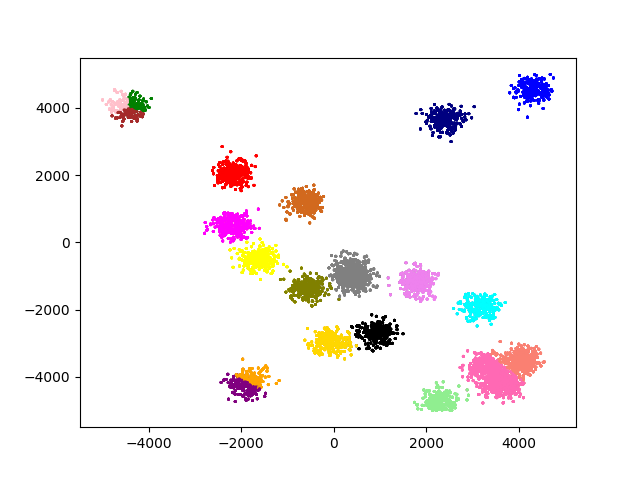
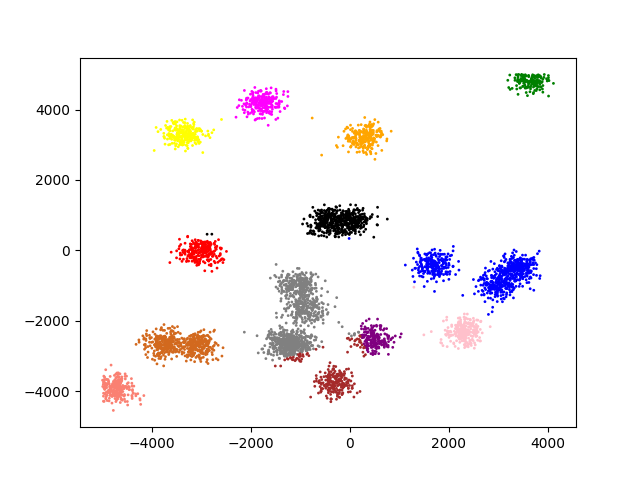
všetko done len aglo festzle

diff --git a/main.py b/main.py
@@ -1,12 +1,13 @@
 import random
 import matplotlib.pyplot as plt
+import time
 
 
 # vygeneruje prvych 20 bodov
-def generateStartingPoints():
+def generateStartingPoints(k):
     pa = []
     count = 0
-    while count != 20:
+    while count != k:
         new = []
         x = random.randrange(-5000, 5001)
         y = random.randrange(-5000, 5001)
@@ -22,7 +23,7 @@ def generateStartingPoints():
 def generateOtherPoints(pa, op):
     count = 0
 
-    while count != 20000:
+    while count != 1000:
         rand_num = random.randrange(0, len(pa))
         random_point = pa[rand_num]
         point = []
@@ -73,28 +74,22 @@ def assign_clusters(other_points, centroids, clusters):
 
 
 # vykresli body
-def printGraph(k, clusters_arr, h):
+def printGraph(k, clusters_arr, title, h):
     colors = ["black", "green", "orange", "red", "blue", "magenta", "yellow", "purple", "pink", "gray", "brown",
               "salmon", "chocolate", "lightgreen", "hotpink", "navy", "violet", "gold", "olive", "cyan", " lime",
               "olivedrab"]
     for i in range(k):
         points_x, points_y = createXY_arrays(clusters_arr[i])
         plt.scatter(points_x, points_y, 1, marker="o", facecolors="none", edgecolors=colors[i])
-        #plt.scatter(points_x, points_y, 1)
+        # plt.scatter(points_x, points_y, 1)
     #plt.savefig("obr/" + str(h) + ".png")
+    plt.suptitle(title)
     plt.show()
 
 
 def k_mean(k, other_points):
-    points_x, points_y = createXY_arrays(other_points)
-    plt.scatter(points_x, points_y, 1, color='black', marker="o", facecolors="none", edgecolors="black")
-    plt.savefig("0.png")
-
-    plt.show()
-
     clusters = []
-    centroids = generateStartingPoints()
-
+    centroids = generateStartingPoints(k)
     for i in centroids:  # prida centroidy do klusterov
         new = [i]
         clusters.append(new)
@@ -102,10 +97,11 @@ def k_mean(k, other_points):
     # first iteration
     clusters = assign_clusters(other_points, centroids, clusters)
 
+    """
     for i in clusters:  # vymaze centroidy z clusterov
         del i[0]
-
-    printGraph(k, clusters, 0)
+    """
+    #printGraph(k, clusters, 0, "Centroid - 0 iterations")
 
     # other iterations
     clusters_old = []
@@ -117,7 +113,7 @@ def k_mean(k, other_points):
             c = 0
             average_x = 0
             average_y = 0
-            if clusters[i]:
+            if len(clusters[i]) > 1:
                 while c != len(clusters[i]):
                     average_x += clusters[i][c][0]
                     average_y += clusters[i][c][1]
@@ -136,8 +132,60 @@ def k_mean(k, other_points):
             clusters.append(new)
 
         clusters = assign_clusters(other_points, centroids, clusters)
+        """
         for i in clusters:  # vymaze centroidy z clusterov
             del i[0]
+        """
+        if clusters_old == clusters:
+            break
+
+        clusters_old.clear()
+        for i in clusters:
+            clusters_old.append(i)
+        h += 1
+
+    return clusters
+
+
+def k_mean_medoid(k, other_points):
+    clusters = []
+    medoids = generateStartingPoints(k)
+
+    for i in medoids:  # prida medoidy do klusterov
+        new = [i]
+        clusters.append(new)
+
+    # first iteration
+    clusters = assign_clusters(other_points, medoids, clusters)
+
+    #printGraph(k, clusters, 0, "Medoid - 0 iterations")
+
+    # other iterations
+    clusters_old = []
+    h = 1
+    while True:
+        medoids.clear()
+
+        for i in clusters:
+            medoid = None
+            smallest_dist = 82548254
+            for q in i:
+                distance = 0
+                for p in i:
+                    if distance > smallest_dist:
+                        break
+                    distance += ((q[0] - p[0]) ** 2 + (q[1] - p[1]) ** 2) ** 0.5
+                if distance < smallest_dist:
+                    smallest_dist = distance
+                    medoid = q
+            medoids.append(medoid)
+
+        clusters.clear()
+        for i in medoids:
+            new = [i]
+            clusters.append(new)
+
+        clusters = assign_clusters(other_points, medoids, clusters)
 
         if clusters_old == clusters:
             break
@@ -146,22 +194,158 @@ def k_mean(k, other_points):
         for i in clusters:
             clusters_old.append(i)
         h += 1
-    printGraph(k, clusters, h)
+    return clusters
 
-    # return clusters
+
+def divisive(k, other_points):
+    clusters = []
+    centroids = []
+    clusters = k_mean(2, other_points)
+    h = 0
+    #printGraph(len(clusters), clusters, "Divisive", h)
+    for i in clusters:
+        centroids.append(i[0])
+    h += 1
+    while k != len(clusters):
+        biggest_cluster = None
+        biggest = 0
+        for i in clusters:
+            if len(i) > 1:
+                centroid = i[0]
+                distance = 0
+                for q in i:
+                    distance += ((q[0] - centroid[0]) ** 2 + (q[1] - centroid[1]) ** 2) ** 0.5
+                average = distance / len(i)
+                if average > biggest:
+                    biggest = average
+                    biggest_cluster = i
+        clusters.remove(biggest_cluster)
+        in_cluster = k_mean(2, biggest_cluster)
+        clusters.append(in_cluster[0])
+        clusters.append(in_cluster[1])
+        #printGraph(len(clusters), clusters, "Divisive", h)
+        h += 1
+    for i in clusters:
+        del i[0]
+    return clusters
+
+
+def aglo(k, other_points):
+    clusters = []
+
+    for i in other_points:
+        new = [i]
+        clusters.append(new)
+
+    centroids = []
+    while k != len(clusters):
+        centroids.clear()
+        # do clustrov prida na začiatok centroidy
+        hh = 5
+        for i in clusters:
+            if len(i) == 1:
+                centroids.append(i[0])
+            elif len(i) == 0:
+                new_centroid = [random.randrange(-5000, 5001), random.randrange(-5000, 5001)]
+                centroids.append(new_centroid)
+            else:
+                average_x = 0
+                average_y = 0
+                for q in i:
+                    average_x += q[0]
+                    average_y += q[1]
+                average_x = average_x / len(i)
+                average_y = average_y / len(i)
+                centroid = [int(average_x), int(average_y)]
+                centroids.append(centroid)
+                i.insert(0, centroid)
+
+        # zisti 2 najblizsie centroidy
+        smallest_dist = 82548254
+        q = 0
+        p = 0
+        centroid1 = []
+        centroid2 = []
+        for i in range(len(clusters)):
+            for y in range(len(clusters)):
+                distance = ((clusters[i][0][0] - clusters[y][0][0]) ** 2 + (clusters[i][0][1] - clusters[y][0][1]) ** 2) ** 0.5
+                if distance != 0 and distance < smallest_dist:
+                    smallest_dist = distance
+                    centroid1 = clusters[i][0]
+                    centroid2 = clusters[y][0]
+                    q = i
+                    p = y
+
+        # podla centroid spoji clustre
+        stop = False
+        for i in clusters:
+            for y in clusters:
+                if i[0] == centroid1 and y[0] == centroid2:
+                    new = []
+                    new_can_x = centroid1[0] + centroid2[0]
+                    new_can_y = centroid1[1] + centroid2[1]
+                    new_cen = [int(new_can_x)/2, int(new_can_y)/2]
+                    new.append(new_cen)
+                    if len(i) != 1:
+                        del i[0]
+                    for j in i:
+                        new.append(j)
+                    if len(y) != 1:
+                        del y[0]
+                    for j in y:
+                        new.append(j)
+                    clusters.remove(i)
+                    clusters.remove(y)
+                    clusters.append(new)
+                    stop = True
+                    break
+            if stop:
+                break
+
+    return clusters
 
 
 def main():
     other_points = []
 
-    points_array = generateStartingPoints()
+    points_array = generateStartingPoints(20)
     generateOtherPoints(points_array, other_points)
+
+    points_x, points_y = createXY_arrays(other_points)
+    plt.scatter(points_x, points_y, 1, color='black', marker="o", facecolors="none", edgecolors="black")
+    plt.suptitle("Start")
+    plt.show()
     # matrix_of_distances = create_matrix_of_distances(other_points)
 
     k = 20
-    # clusters_arr = k_mean(k, other_points)
 
-    k_mean(k, other_points)
+    # k-mean centroid
+    time_start = time.time()
+    c1 = k_mean(k, other_points)
+    time_end = time.time()
+    printGraph(k, c1, "Centroid", 0)
+    print("K-means - centroid pri " + str(k) + " zhlukoch zabral " + str(time_end - time_start))
+
+    # k-mean medoid
+    time_start = time.time()
+    c2 = k_mean_medoid(k, other_points)
+    time_end = time.time()
+    printGraph(k, c2, "Medoid", 0)
+    print("K-means - medoid pri " + str(k) + " zhlukoch zabral " + str(time_end - time_start))
+
+    # divisive
+    time_start = time.time()
+    c3 = divisive(k, other_points)
+    time_end = time.time()
+    printGraph(k, c3, "Divisive", 0)
+    print("Divízne zhlukovanie pri " + str(k) + " zhlukoch zabral " + str(time_end - time_start))
+
+    # aglomerative
+    time_start = time.time()
+    c4 = aglo(k, other_points)
+    time_end = time.time()
+    printGraph(k, c4, "Aglomerative", 0)
+    print("Aglomerativne zhlukovanie pri " + str(k) + " zhlukoch zabral " + str(time_end - time_start))
 
 
 if __name__ == '__main__':
